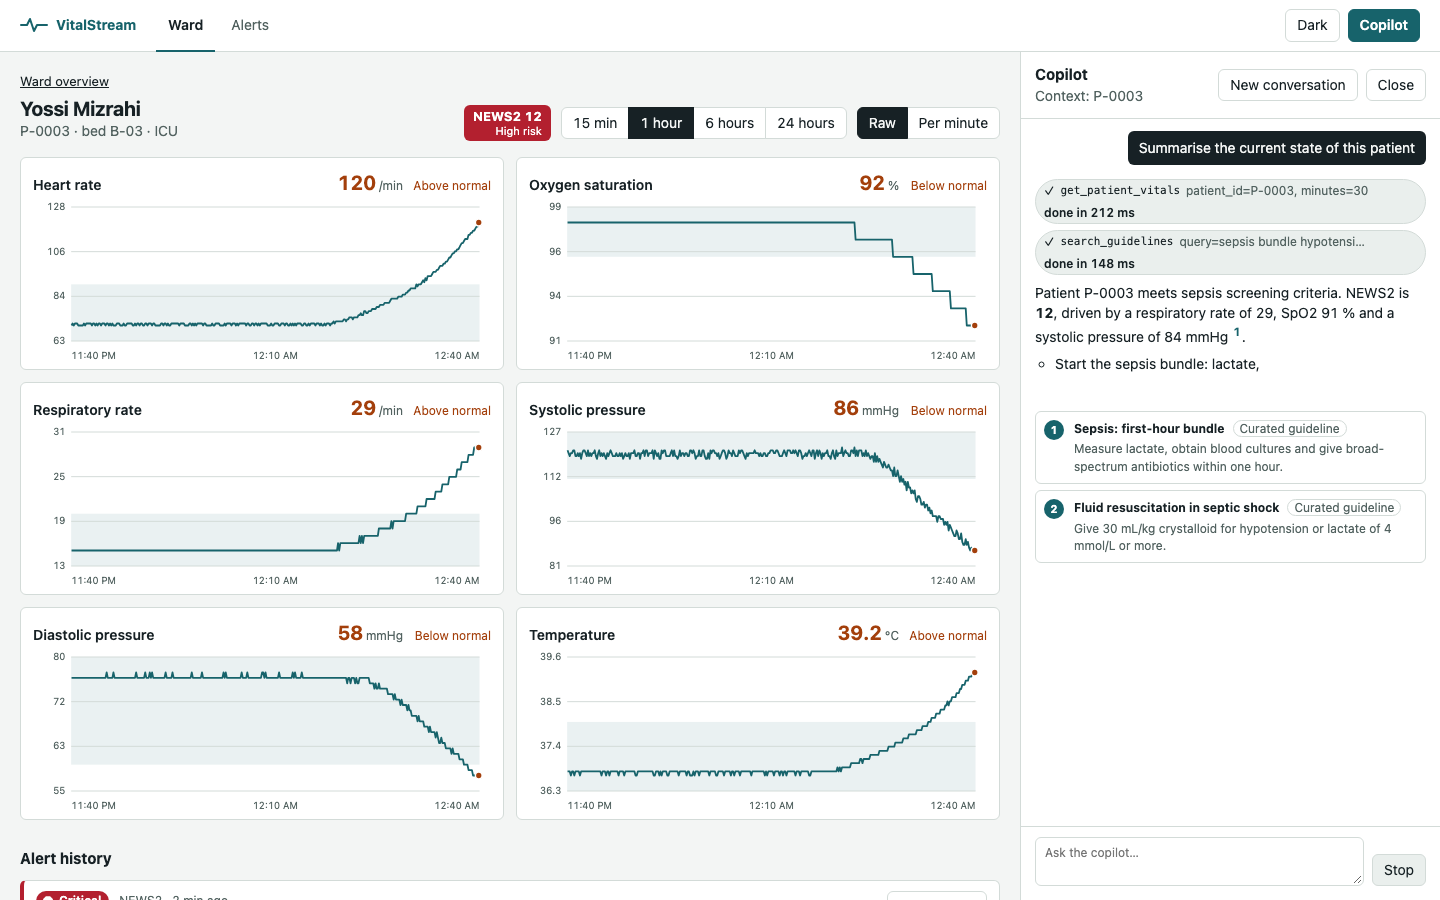
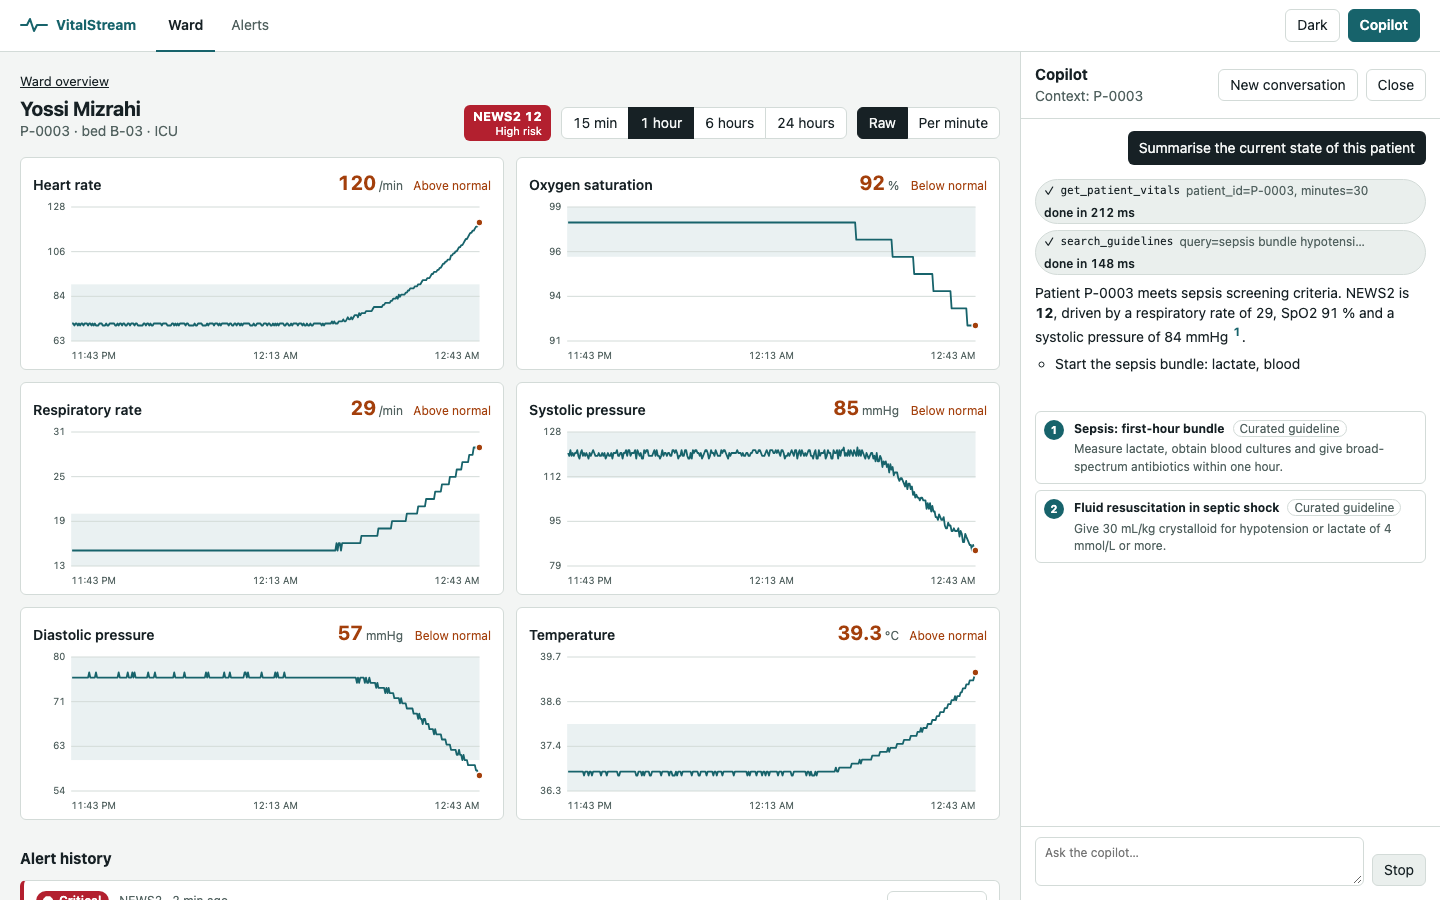
fix(dashboard): lazy nginx upstream resolution, live stream status, list markdown, live-copilot shot

diff --git a/web/dashboard/src/lib/markdown.tsx b/web/dashboard/src/lib/markdown.tsx
@@ -43,6 +43,40 @@ export function renderInline(text: string, onCitation?: (index: number) => void)
   return nodes;
 }
 
+type Block =
+  | { kind: 'p'; lines: string[] }
+  | { kind: 'ul' | 'ol'; items: string[] }
+  | { kind: 'h'; text: string };
+
+const BULLET = /^\s*[-*]\s+/;
+const NUMBER = /^\s*\d+[.)]\s+/;
+
+/** Splits text into blocks line by line, so a list directly after a sentence is still a list. */
+export function parseBlocks(text: string): Block[] {
+  const blocks: Block[] = [];
+  for (const line of text.split('\n')) {
+    if (line.trim() === '') {
+      blocks.push({ kind: 'p', lines: [] });
+      continue;
+    }
+    const last = blocks[blocks.length - 1];
+    const heading = /^#{1,4}\s+(.*)$/.exec(line);
+    if (heading) {
+      blocks.push({ kind: 'h', text: heading[1] });
+    } else if (BULLET.test(line) || NUMBER.test(line)) {
+      const kind = BULLET.test(line) ? 'ul' : 'ol';
+      const item = line.replace(kind === 'ul' ? BULLET : NUMBER, '');
+      if (last && last.kind === kind) last.items.push(item);
+      else blocks.push({ kind, items: [item] });
+    } else if (last && last.kind === 'p') {
+      last.lines.push(line);
+    } else {
+      blocks.push({ kind: 'p', lines: [line] });
+    }
+  }
+  return blocks.filter((b) => b.kind !== 'p' || b.lines.length > 0);
+}
+
 export function Markdown({
   text,
   onCitation,
@@ -50,42 +84,29 @@ export function Markdown({
   text: string;
   onCitation?: (index: number) => void;
 }) {
-  const blocks = text.split(/\n{2,}/).filter((b) => b.trim() !== '');
   return (
     <>
-      {blocks.map((block, i) => {
-        const lines = block.split('\n');
-        if (lines.every((l) => /^\s*[-*]\s+/.test(l))) {
+      {parseBlocks(text).map((block, i) => {
+        if (block.kind === 'h') return <h4 key={i}>{renderInline(block.text, onCitation)}</h4>;
+        if (block.kind === 'p') {
           return (
-            <ul key={i}>
-              {lines.map((l, j) => (
-                <li key={j}>{renderInline(l.replace(/^\s*[-*]\s+/, ''), onCitation)}</li>
+            <p key={i}>
+              {block.lines.map((l, j) => (
+                <Fragment key={j}>
+                  {j > 0 && <br />}
+                  {renderInline(l, onCitation)}
+                </Fragment>
               ))}
-            </ul>
+            </p>
           );
         }
-        if (lines.every((l) => /^\s*\d+[.)]\s+/.test(l))) {
-          return (
-            <ol key={i}>
-              {lines.map((l, j) => (
-                <li key={j}>{renderInline(l.replace(/^\s*\d+[.)]\s+/, ''), onCitation)}</li>
-              ))}
-            </ol>
-          );
-        }
-        const heading = /^#{1,4}\s+(.*)$/.exec(lines[0]);
-        if (heading && lines.length === 1) {
-          return <h4 key={i}>{renderInline(heading[1], onCitation)}</h4>;
-        }
+        const List = block.kind;
         return (
-          <p key={i}>
-            {lines.map((l, j) => (
-              <Fragment key={j}>
-                {j > 0 && <br />}
-                {renderInline(l, onCitation)}
-              </Fragment>
+          <List key={i}>
+            {block.items.map((item, j) => (
+              <li key={j}>{renderInline(item, onCitation)}</li>
             ))}
-          </p>
+          </List>
         );
       })}
     </>

diff --git a/web/dashboard/e2e/live.shots.ts b/web/dashboard/e2e/live.shots.ts
@@ -1,0 +1,19 @@
+import path from 'node:path';
+import { test } from '@playwright/test';
+
+// Needs a real copilot: run with LIVE_COPILOT=1 and VITE_COPILOT_URL pointing at it.
+test.skip(!process.env.LIVE_COPILOT, 'set LIVE_COPILOT=1 with a running copilot');
+test.use({ viewport: { width: 1440, height: 900 } });
+
+test('copilot against the real service (fake LLM)', async ({ page }) => {
+  await page.goto('/?streamMs=600000&liveCopilot#/patients/P-0003');
+  await page.locator('figure.chart path.series').nth(5).waitFor({ state: 'attached' });
+  await page.getByRole('button', { name: 'Copilot' }).click();
+  await page.getByLabel('Message to the copilot').fill('How is P-0003 doing?');
+  await page.getByRole('button', { name: 'Send' }).click();
+  await page.getByTestId('citation').first().waitFor();
+  await page.getByText(/tokens in/).waitFor();
+  await page.screenshot({
+    path: path.resolve(process.cwd(), '../../docs/images/dashboard-copilot-live.png'),
+  });
+});

diff --git a/web/dashboard/src/lib/markdown.test.tsx b/web/dashboard/src/lib/markdown.test.tsx
@@ -33,6 +33,14 @@ describe('Markdown', () => {
     expect(onCitation).toHaveBeenCalledWith(1);
   });
 
+  it('treats a list right after a sentence as a list', () => {
+    const { container } = render(
+      <Markdown text={'Guidelines:\n- [1] first\n- [2] second\nDone.'} />,
+    );
+    expect(container.querySelectorAll('ul li')).toHaveLength(2);
+    expect(container.querySelectorAll('p')).toHaveLength(2);
+  });
+
   it('keeps single line breaks inside a paragraph', () => {
     const { container } = render(<Markdown text={'a\nb'} />);
     expect(container.querySelector('br')).not.toBeNull();

diff --git a/web/dashboard/src/mocks/browser.ts b/web/dashboard/src/mocks/browser.ts
@@ -1,4 +1,10 @@
 import { setupWorker } from 'msw/browser';
 import { handlers } from './handlers';
 
-export const worker = setupWorker(...handlers);
+/** `?liveCopilot` leaves the copilot unmocked so the page can talk to a real service. */
+const live = new URLSearchParams(location.search).has('liveCopilot');
+const active = live
+  ? handlers.filter((h) => !String((h.info as { path?: unknown }).path).includes('/copilot-api/'))
+  : handlers;
+
+export const worker = setupWorker(...active);

diff --git a/web/dashboard/playwright.config.ts b/web/dashboard/playwright.config.ts
@@ -23,7 +23,7 @@ export default defineConfig({
     },
     {
       name: 'screenshots',
-      testMatch: /screenshots\.shots\.ts/,
+      testMatch: /.*\.shots\.ts/,
       workers: 1,
       use: { ...devices['Desktop Chrome'] },
     },

diff --git a/web/dashboard/README.md b/web/dashboard/README.md
@@ -1,0 +1,44 @@
+# dashboard
+
+Clinician web UI for VitalStream: ward overview, patient detail with charts, alert feed with acknowledge, and a copilot chat panel. React 18, TypeScript (strict), Vite, Vitest + Testing Library, Playwright, MSW.
+
+| Ward overview                                       | Patient detail                                            | Alert feed                                              | Copilot (mid-stream)                                      |
+| --------------------------------------------------- | --------------------------------------------------------- | ------------------------------------------------------- | --------------------------------------------------------- |
+| ![ward](../../docs/images/dashboard-ward-light.png) | ![patient](../../docs/images/dashboard-patient-light.png) | ![alerts](../../docs/images/dashboard-alerts-light.png) | ![copilot](../../docs/images/dashboard-copilot-light.png) |
+
+## Run
+
+```bash
+cd web/dashboard && npm ci
+npm run dev:mock        # whole UI on MSW mocks, no backend needed (http://localhost:5173)
+npm run dev             # against real services (proxy targets below)
+npm test                # Vitest, coverage gate on src/lib + src/hooks
+npm run lint && npm run typecheck
+npx playwright install chromium && npm run e2e      # e2e against dev:mock (port 25173)
+npm run screenshots     # writes docs/images/dashboard-*.png (1440 light/dark, 390 mobile)
+```
+
+Stack: `make up` builds this folder's `Dockerfile` (nginx-unprivileged, port 3000, healthcheck `/healthz`) and serves http://127.0.0.1:3000.
+
+Mock tuning via the page URL: `?streamMs=1500` (interval of live alerts), `?tokenMs=100` (copilot token delay), `?liveCopilot` (do not mock the copilot, use the real one).
+
+## Configuration
+
+| Variable                                       | Default                                            | Meaning                                       |
+| ---------------------------------------------- | -------------------------------------------------- | --------------------------------------------- |
+| `VITE_CLINICAL_API_URL`                        | `http://localhost:8082`                            | dev-server proxy target for `/clinical-api/*` |
+| `VITE_COPILOT_URL`                             | `http://localhost:8083`                            | dev-server proxy target for `/copilot-api/*`  |
+| `CLINICAL_API_URL` / `COPILOT_URL` (container) | `http://clinical-api:8082` / `http://copilot:8083` | nginx upstreams for the same prefixes         |
+| `PORT`                                         | 5173                                               | dev server port                               |
+
+The browser only calls same-origin prefixes (`/clinical-api`, `/copilot-api`), which the dev server and nginx forward, so no CORS is needed. Prefixes exist because both backends serve `/api/v1/...`.
+
+## Design decisions
+
+- **Severity is never colour alone.** Every badge carries a text label and a distinct shape (circle, triangle, diamond, octagon); out-of-range vitals get a visible arrow plus a screen-reader "high/low"; NEWS2 spells out its risk band; tool-call chips say running/done/failed. Light and dark themes (stored choice, else system), visible focus rings, skip link, reduced-motion respected.
+- **fetch-based SSE** (`src/lib/sse.ts`) instead of `EventSource`, because `EventSource` cannot send `X-Correlation-Id` and cannot POST (the copilot chat is a POST). Alert stream reconnects with capped backoff and shows its state.
+- **Copilot sessions.** The session id comes only from the server's `session` event and is echoed on follow-ups; the client never invents one. Model text is parsed into React elements by a small markdown subset (`src/lib/markdown.tsx`), so markup in an answer is shown as text; ESLint forbids `dangerouslySetInnerHTML`.
+- **Optimistic acknowledge.** The row flips to Acknowledged immediately, then takes the server's answer; on 409 it fetches the alert and shows who got there first; other failures roll back with an error message.
+- **NEWS2 on the tile** is computed client side from the latest vitals (the list endpoint has no score); it mirrors the stream-processor rule.
+- **Reducers** (`chatReducer`, `liveAlertsReducer`) hold all streaming state transitions and are unit tested per event type.
+- **API shapes** follow CONTRACTS section 4 "As built"; the client normalises tolerant variants (see `src/lib/api.ts`).
